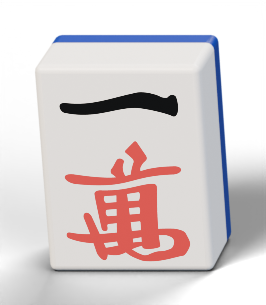
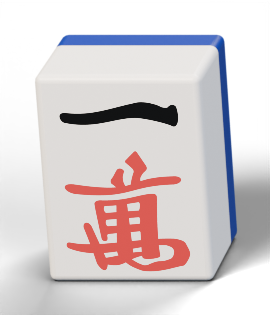
render: model the tile to jansou proportions (28 x 21 x 16.5 mm)
Replace the hand-tuned tile box with the real ratio. The spec now owns
tile.proportionsMm (height 28, width 21, thickness 16.5, backing included)
plus one world height; resolve_tile_dimensions() derives width and thickness,
so the box cannot drift from the ratio. At height 1.0 the tile is
1.0 x 0.75 x 0.58929 units; the backing stays at 30%.

The thicker body raises the projected top edge from 33.59 to 43.75 device px,
so the measured blue run goes from 8 to 11 px (~5.5 CSS px) above the 191.92 px
face, and the body crops grow to 271 x 315.

Record the ratio and resolved units in the manifest, show them on the contact
sheet, and update the README/plan dimensions and measurements. Regenerate the
spike.

diff --git a/tools/render/build_and_render.py b/tools/render/build_and_render.py
@@ -61,6 +61,28 @@ def check_blender_version(spec: dict) -> str:
     return actual
 
 
+def resolve_tile_dimensions(spec: dict) -> dict:
+    """Derive the tile box from the jansou proportions.
+
+    The spec owns the real-world ratio (28 x 21 x 16.5 mm, height x width x
+    thickness) and one world height; width and thickness are computed so no
+    hand-copied number can drift from the ratio.
+    """
+    tile = spec["tile"]
+    proportions = tile["proportionsMm"]
+    height = tile["heightUnits"]
+    tile["height"] = height
+    tile["width"] = height * proportions["width"] / proportions["height"]
+    tile["thickness"] = height * proportions["thickness"] / proportions["height"]
+    log(
+        "tile: "
+        f"{tile['height']:.5f} h x {tile['width']:.5f} w x {tile['thickness']:.5f} t units "
+        f"(ratio {proportions['height']:g} x {proportions['width']:g} x "
+        f"{proportions['thickness']:g} mm)"
+    )
+    return tile
+
+
 def srgb_to_linear(value: float) -> float:
     return value / 12.92 if value <= 0.04045 else ((value + 0.055) / 1.055) ** 2.4
 
@@ -649,6 +671,7 @@ def main() -> None:
     spec = json.loads(spec_path.read_text())
 
     blender_version = check_blender_version(spec)
+    resolve_tile_dimensions(spec)
     scene = reset_scene()
     configure_render(scene, spec)
     render_width = scene.render.resolution_x
@@ -819,6 +842,15 @@ def main() -> None:
         "blender": blender_version,
         "units": "device px, origin top-left, y down; divide by pixelRatio for CSS",
         "pixelRatio": spec["scene"]["pixelRatio"],
+        "tile": {
+            "proportionsMm": tile_spec["proportionsMm"],
+            "units": {
+                "height": round(tile_spec["height"], 5),
+                "width": round(tile_spec["width"], 5),
+                "thickness": round(tile_spec["thickness"], 5),
+            },
+            "backEdgeFraction": tile_spec["backEdgeFraction"],
+        },
         "scene": {
             "width": spec["scene"]["widthCss"],
             "height": spec["scene"]["heightCss"],

diff --git a/tools/render/README.md b/tools/render/README.md
@@ -52,7 +52,7 @@ That command:
 4. assembles the labelled contact sheet with resvg
    (`scripts/contact-sheet.mjs`).
 
-It takes roughly 30 seconds on this machine at 256 samples. There is no manual
+It takes about 50 seconds on this machine at 256 samples. There is no manual
 Blender interaction and no UI. The render is deterministic: the seed is fixed,
 the samples are fixed, and repeated runs produce identical pixels (Blender's PNG
 container bytes can differ, so compare decoded pixels, not file hashes).
@@ -80,10 +80,14 @@ shipped assets under `frontend/public/table/`).
 
 ## Scene and coordinate conventions
 
-World units are tile units: face 0.75 × 1.0, thickness 0.45, bevel width 0.035
-(= `faceInset`). Tiles are modelled flat (face up +Z, symbol top +Y). The
-`hand-upright` pose rotates the tile 90° about X so the face points at the
-player (−Y) and the tile stands on the table.
+World units are tile units, and the tile follows the **jansou proportions**:
+28 × 21 × 16.5 mm (height × width × thickness), including the backing. The spec
+owns that ratio plus one world height (`heightUnits`), and the script derives
+width and thickness, so the box can never drift from the ratio. At height 1.0 the
+face is 0.75 × 1.0 and the thickness 0.58929. Bevel width 0.035 (= `faceInset`).
+Tiles are modelled flat (face up +Z, symbol top +Y). The `hand-upright` pose
+rotates the tile 90° about X so the face points at the player (−Y) and the tile
+stands on the table.
 
 The scene is one fixed perspective camera (65 mm on a 36 mm sensor, 2880 × 1800
 device pixels = 1440 × 900 CSS at `pixelRatio: 2`), a 3-light area rig, a
@@ -111,7 +115,7 @@ shading position-dependent: the near (left) bevel catches the key light, the
 right bevel falls into the fill, and the right side of the body is visible at all
 (the face quad is a true trapezoid: top edge 151.1 px, bottom edge 149.3 px,
 centre sheared 14 px). A slot at the row centre would lose the side face and
-flatten the bevel contrast. The crop is 266 × 305 device px including the 32 px
+flatten the bevel contrast. The crop is 271 × 315 device px including the 32 px
 shadow gutter. On the visible side the ivory front band meets the blue rear
 band at the backing line, which is what makes the wrap read as a physical
 backing rather than a painted stripe.
@@ -128,14 +132,14 @@ are blue (`backEdgeFraction: 0.3`), so the colour wraps the whole body. On a
 standing hand tile that gives a blue line along the top and a blue band down the
 visible side, and from behind the tile is solid blue (see the back diagnostic).
 
-At the hand slot the raised camera projects the 0.45-unit top edge to **33.59
-device px**, of which the blue run measures **8 device px** (expected 10.08; the
-top bevel arc eats the difference) on a **191.92 device px** face. That is ~4
-CSS px of blue above a ~96 CSS px face — a visible line, not a stripe, and it
-survives at the shipped 2× size.
+At the hand slot the raised camera projects the 0.58929-unit top edge to
+**43.75 device px**, of which the blue run measures **11 device px** (expected
+13.12; the top bevel arc eats the difference) on a **191.92 device px** face.
+That is ~5.5 CSS px of blue above a ~96 CSS px face — a visible line, not a
+stripe, and it survives at the shipped 2× size.
 
 Colour: base `#132986` at roughness 0.34, which reads as a deep royal blue after
-AgX — ≈ RGB(4, 68, 166) on the back face and ≈ RGB(71, 109, 196) on the
+AgX — ≈ RGB(4, 69, 166) on the back face and ≈ RGB(71, 109, 196) on the
 key-lit top edge. A brighter royal base (e.g. `#4169e1`) renders as a pastel
 periwinkle under this key and AgX; keep the base dark to keep the blue deep.
 
@@ -191,7 +195,7 @@ Each body render is two passes:
 
 The two are combined in `numpy` (tile over shadow) and written as one RGBA PNG,
 with the crop grown by the 32 px gutter. The measured crop is
-`266 × 305` device px with the whole shadow inside it (`clipped: false`).
+`271 × 315` device px with the whole shadow inside it (`clipped: false`).
 The shadow is neutral black alpha, i.e. a multiply-like darkening; over the green
 felt this reads correctly, and it is the same approximation §12.7 specifies
 (no runtime shadow layer, no CSS shadow).
@@ -219,7 +223,7 @@ bevel and alpha can be inspected; Task 2/3 ship 2× lossy WebP under
 
 | File | What it is |
 | --- | --- |
-| `hand-0.body.png` | 266 × 305 device px body sprite for the leftmost hand slot, alpha + baked shadow |
+| `hand-0.body.png` | 271 × 315 device px body sprite for the leftmost hand slot, alpha + baked shadow |
 | `1m-upright.decal.png` | 492 × 672 px lit 1-man face decal (inset + 1 px gutter), rendered at 3× CSS |
 | `1m-upright.composite.png` | body sprite with the decal homography-warped onto its face quad — the 2D composite the runtime will do |
 | `hand-0.back.png` | face-down diagnostic of the same slot (blue backing toward the camera); proves the wrap, not a shipped pose |

diff --git a/rendered-table-plan.md b/rendered-table-plan.md
@@ -180,8 +180,10 @@ These are the starting scene values for Task 1. Section 12 fixes the architectur
 and output rules; Task 1 may tune the numeric material/camera values against its
 first renders, but it does not reopen the section 12 decisions.
 
-- Tile face 0.75 × 1.0 units, body thickness 0.45 units (Task 1 tuned it down from
-  0.5 to slim the visible edge).
+- Tile proportions follow jansou tiles: 28 × 21 × 16.5 mm (height × width ×
+  thickness), including the backing. The spec stores that ratio plus one world
+  height, so at height 1.0 the face is 0.75 × 1.0 and the thickness 0.58929.
+  The backing is the rear 30% of the thickness.
 - Small bevel, 3–4 segments; ivory body with a soft specular response; blue back.
 - Fixed perspective camera with a long lens (subtle convergence and peripheral side faces,
   close to Tenhou).
@@ -375,11 +377,11 @@ for Tasks 2–3:
   distant rig (key ≈ 66 units away) so illumination varies only a few percent
   across the hand row. Do not move the lights closer without re-checking the
   decal/body seam.
-- Measured at `hand-0`: the 0.45-unit top edge projects to 33.59 device px, of
-  which the rear 30% blue is an 8 px run above a 191.92 px face (≈ 4 CSS px of
-  blue at 2×). The backing reads as a sliver; no lean or extra sprite. The same
-  30% band wraps the visible side, and the blue is a deep royal base
-  (`#132986`) that renders as ≈ RGB(4, 68, 166) on the back face and
+- Measured at `hand-0`: the 0.58929-unit top edge projects to 43.75 device px,
+  of which the rear 30% blue is an 11 px run above a 191.92 px face (≈ 5.5 CSS
+  px of blue at 2×). The backing reads as a sliver; no lean or extra sprite. The
+  same 30% band wraps the visible side, and the blue is a deep royal base
+  (`#132986`) that renders as ≈ RGB(4, 69, 166) on the back face and
   ≈ RGB(71, 109, 196) on the key-lit top edge.
 - The decal is 492 × 672 px at 3× CSS (inset 0.68 × 0.93 plus a 1 px gutter).
   Its ivory lands within 1/255 of the body face at the seam, so no runtime mask
